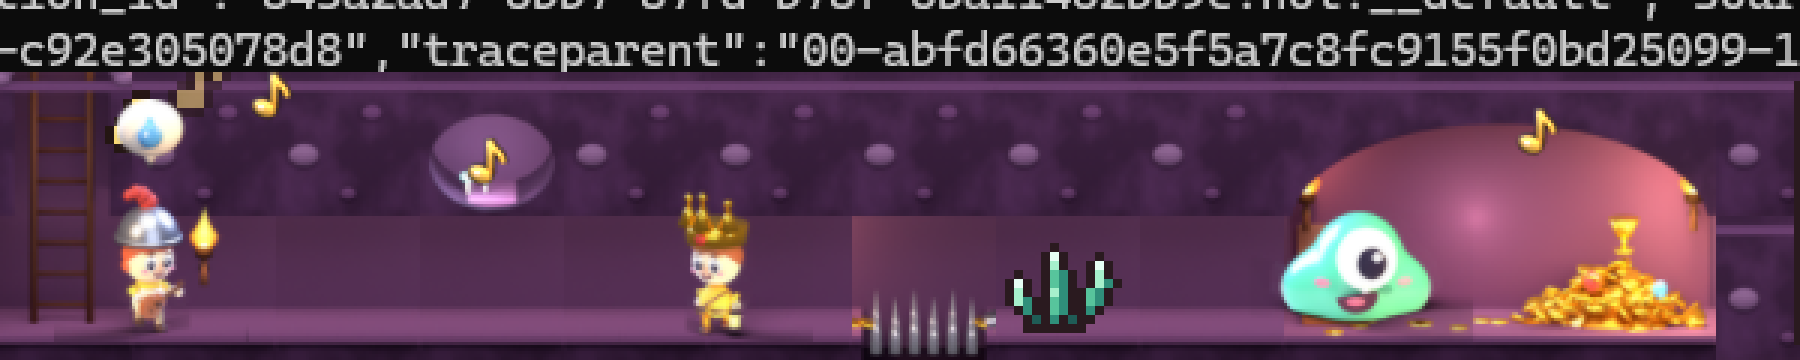
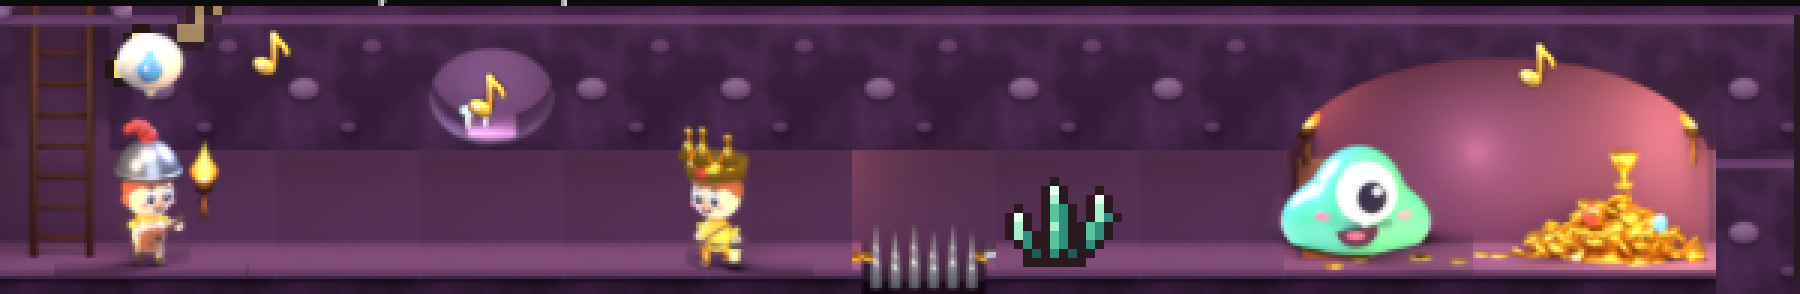
Daan: versiering ronde 2 (schedel, kristal, spinrag), noot lichter, blad voor Thijs concept 3c met het echte spel van main, logboek
Claude-Session: https://claude.ai/code/session_01RMWUyfsTZWB296Mm4MhKDx

diff --git a/ontwerp/steam/blad-3d/blad.html b/ontwerp/steam/blad-3d/blad.html
@@ -12,9 +12,9 @@ img{display:block;max-width:100%;border-radius:8px}
 .vraag{background:#f2b632;color:#2a1a30;border-radius:14px;padding:20px 26px;font-size:24px;font-weight:bold}
 </style></head><body><div class="w">
 <h1>Het Hol in 3D: waar we staan</h1>
-<p class="s">Sinds je laatste blad is het spel van pixels naar 3D gegaan: alles wordt in Blender gemaakt met code en als plaatje in het spel gezet. Gloop staat al zo in de Windows-build. Hieronder wat er nu is, eerlijk met wat nog niet af is.</p>
+<p class="s">Sinds je laatste blad is het spel van pixels naar 3D gegaan: alles wordt in Blender gemaakt met code en als plaatje in het spel gezet. Gloop, het hol en de helden staan al zo in de Windows-build. Hieronder wat er nu is, eerlijk met wat nog niet af is.</p>
 <div class="k"><h2>1 Richting winkelplaatje</h2><p>Gloop met hoedentoren hapt naar twee geschrokken helden bij de schat. Titel komt erbij; dit is de richting, niet het eindbeeld.</p><img src="../helden-3d/winkel-closeup-proef6-breed.png" style="width:1660px"></div>
-<div class="k"><h2>2 Zo wordt het hol</h2><p>Het hele hol in dezelfde 3D-stijl, zoals het straks in je taakbalk staat (proefbeeld uit Blender).</p><img src="../hol-3d/ronde4-2x.png" style="width:1660px"><p style="margin-top:16px">Vandaag in het echte spel op Windows, onderaan je scherm, op ware grootte: hol, fakkels, schat en Gloop zijn al 3D. De helden zijn hier nog de oude pixelpoppetjes; hun 3D-versie (hieronder bij 4) staat klaar en gaat er deze week in.</p><img src="spel-ronde6-160.png" style="width:1024px;border-radius:0"></div>
+<div class="k"><h2>2 Zo wordt het hol</h2><p>Het hele hol in dezelfde 3D-stijl, zoals het straks in je taakbalk staat (proefbeeld uit Blender).</p><img src="../hol-3d/ronde6b-gang-2x.png" style="width:1660px"><p style="margin-top:16px">Vandaag in het echte spel op Windows, onderaan je scherm, op ware grootte: hol, fakkels, schat, Gloop, de helden en het wolkje boven hun hoofd zijn 3D. Het gras erboven valt in het spel weg, de strook begint bij de aarde. Nog in de oude stijl: het kaartje rechts (wat je kocht) en een paar kleine versieringen; die volgen.</p><img src="spel-main-160.png" style="width:1024px;border-radius:0"></div>
 <div class="k"><h2>3 Gloop</h2><p>Rust, knipper, blij en hap. Onder elke Gloop zo groot als in het spel.</p><img src="vak3-gloop.png" style="width:1660px;border-radius:0"></div>
 <div class="k"><h2>4 De helden en hun 10 hoeden</h2><p>Ridder en heks, elk met een willekeurige hoed. Precies die hoed belandt op Gloops toren als hij ze opeet. Dezelfde 10 hoeden als nu in het spel, maar groter en in 3D. Onder elk figuur zo groot als in het spel.</p><img src="vak4-hoeden.png" style="width:1660px;border-radius:0"><p style="margin-top:22px">En de gewone helden (de meeste bezoekers, met een lantaarn, in vijf kleuren), de dief met zijn buit en de bard met zijn luit.</p><img src="vak4-helden.png" style="width:1660px;border-radius:0"></div>
 <div class="vraag">Ga je mee met deze richting? Zeg ja of nee, en wat je het eerst opvalt.</div>

diff --git a/producten/steam-hol/modellen/versiering.py b/producten/steam-hol/modellen/versiering.py
@@ -27,7 +27,7 @@ MAAIVELD_NAMEN = ("bloemen", "struik", "steen", "bordje", "vliegenzwam")
 GANG_HOOG = 16 * SPX * 0.966 / 0.966  # 16 spelpixels gang (vloer z 0 tot plafond)
 
 _M = {}
-SCHAAL = {"ton": 0.78, "krat": 0.82}
+SCHAAL = {"ton": 0.78, "krat": 0.82, "kristal": 0.75, "schedel": 0.85}  # kristal en schedel: frisse kijker 14 nov, te groot en te fel
 
 
 def m(naam, kleur, **kw):
@@ -129,7 +129,7 @@ def bouw(naam, x, z, y=0.35):
         blok(ouder, p + "_kruis", (0, -4.15 * s, 4.8 * s), (11 * s, 0.5 * s, 1.3 * s), hout_d, rond=0.2 * s,
              rot=(0, math.radians(45), 0))
     elif naam == "schedel":
-        bot = m("bot", "eee6d8", rough=0.55)
+        bot = m("bot", "c8b8a2", rough=0.7)  # frisse kijker 14 nov: was te wit en te fel
         gat = m("gat", "2a1832", rough=0.9)
         bol(ouder, p + "_kop", (-0.8 * s, 0, 3.6 * s), (3.0 * s, 2.7 * s, 2.7 * s), bot, 32)
         blok(ouder, p + "_kaak", (-0.8 * s, -0.4 * s, 1.0 * s), (3.6 * s, 3.2 * s, 1.8 * s), bot, rond=0.7 * s)
@@ -141,8 +141,8 @@ def bouw(naam, x, z, y=0.35):
         for dx in (-1.7, 1.7):
             bol(ouder, p + "_knobbel", (3.6 * s + dx * s * 0.94, -0.6 * s + dx * s * 0.34, 0.6 * s), (0.7 * s, 0.7 * s, 0.6 * s), bot, 12)
     elif naam == "kristal":
-        groen = m("kristal", "2fb889", rough=0.12, spec=0.8, emis=0.25)
-        licht = m("kristal_l", "5fe0b0", rough=0.1, spec=0.8, emis=0.3)
+        groen = m("kristal", "4f8fd0", rough=0.15, spec=0.7, emis=0.08)  # ijsblauw, niet Gloops muntgroen
+        licht = m("kristal_l", "86b8e6", rough=0.12, spec=0.7, emis=0.1)
         voet = m("kristal_voet", "4e3158", rough=0.85)
         bol(ouder, p + "_steen", (0, 0.1, 0.4 * s), (4.6 * s, 2.6 * s, 1.4 * s), voet, 16)
         for i, (dx, hoog, r, kant, mt) in enumerate(((0, 9.0, 1.7, 0, groen), (-2.4, 6.4, 1.4, -26, licht),
@@ -156,11 +156,11 @@ def bouw(naam, x, z, y=0.35):
             cil(ouder, p + f"_zuil{i}", (cx, -0.2 * s, cz), r * s, lang, mt, rot=(0, a, 0), verts=6, glad=False)
             px, pz = dx * s + math.sin(a) * (lang + hoog * 0.14 * s), z0 + math.cos(a) * (lang + hoog * 0.14 * s)
             cil(ouder, p + f"_punt{i}", (px, -0.2 * s, pz), r * s, hoog * 0.28 * s, mt, rot=(0, a, 0), verts=6, r2=0.0, glad=False)
-        l = bpy.data.lights.new(p + "_licht", "POINT"); l.color = (0.5, 1.0, 0.75); l.energy = 3; l.shadow_soft_size = 0.2
+        l = bpy.data.lights.new(p + "_licht", "POINT"); l.color = (0.6, 0.78, 1.0); l.energy = 1.2; l.shadow_soft_size = 0.2
         lo = bpy.data.objects.new(p + "_licht", l); lo.location = (0, -0.35, 5 * s); lo.parent = ouder
         bpy.context.scene.collection.objects.link(lo)
     elif naam == "spinrag":
-        web = m("web", "ddd4e8", rough=0.6, emis=0.12)
+        web = m("web", "b9b0c6", rough=0.7)  # grijzer en dikker: was op ware grootte een wit krasje
         zw = m("spin", "2a1832", rough=0.6)
         oog = m("spinoog", "ff6a5a", rough=0.3, emis=1.0)
         # waaier van draden vanuit de linkerbovenhoek, met twee bogen dwars
@@ -169,14 +169,14 @@ def bouw(naam, x, z, y=0.35):
             a = math.radians(-90 + k * 22.5)
             lang = 7.5 * s
             cil(ouder, p + "_draad", (mid[0] + math.cos(a) * lang / 2 + lang / 2 * 0, mid[1], mid[2] + math.sin(a) * lang / 2 * 0.9),
-                0.18 * s, lang, web, rot=(0, -a + math.pi / 2, 0), verts=6)
+                0.28 * s, lang, web, rot=(0, -a + math.pi / 2, 0), verts=6)
         for rr in (3.0, 5.6):
             for k in range(4):
                 a1, a2 = math.radians(-90 + k * 22.5), math.radians(-90 + (k + 1) * 22.5)
                 x1, z1 = math.cos(a1) * rr * s, math.sin(a1) * rr * s * 0.9
                 x2, z2 = math.cos(a2) * rr * s, math.sin(a2) * rr * s * 0.9
                 dx, dz = x2 - x1, z2 - z1
-                cil(ouder, p + "_boog", (mid[0] + (x1 + x2) / 2, mid[1], (z1 + z2) / 2), 0.14 * s, math.hypot(dx, dz) * 1.1,
+                cil(ouder, p + "_boog", (mid[0] + (x1 + x2) / 2, mid[1], (z1 + z2) / 2), 0.22 * s, math.hypot(dx, dz) * 1.1,
                     web, rot=(0, math.atan2(dx, dz), 0), verts=6)
         # spin aan een draadje
         cil(ouder, p + "_hangdraad", (1.5 * s, -0.1, -3.2 * s), 0.12 * s, 6.4 * s, web, verts=6)

diff --git a/producten/steam-hol/modellen/tekens.py b/producten/steam-hol/modellen/tekens.py
@@ -124,7 +124,7 @@ def _noot(ouder):
     goud = g.mat("teken_noot_goud", "ffd25a", rough=0.3, spec=0.6, metaal=0.25)
     rug = g.mat("teken_noot_rug", "2a1810", rough=0.7)
     for laag, m, dik, y0 in (("rug", rug, 1.0, 0.07), ("voor", goud, 0.0, 0.0)):
-        e = 0.05 * dik  # rug iets dikker rondom
+        e = 0.035 * dik  # rug iets dikker rondom (was 0.05; frisse kijker: groot te zwaar)
         # kopje: platte ellips, 25 graden gekanteld
         bpy.ops.mesh.primitive_uv_sphere_add(segments=40, ring_count=20, location=(-0.1, y0, 0.2))
         k = _obj(bpy.context.object, f"teken_noot_{laag}_kop", m, ouder)

diff --git a/berichten/bram.md b/berichten/bram.md
@@ -3,6 +3,7 @@
 Thijs zet hier (via de projectchat) opdrachten en wensen neer. Lees dit bestand als eerste bij elke run.
 - Nieuwste bovenaan. Een open bericht gaat voor op je takenlijst, tenzij het de regels breekt.
 - Klaar of verwerkt? Zet er "(verwerkt <datum>: wat je deed)" achter. Verwijder niets.
+- **14 nov ±02:50 UTC (van Daan): versiering ronde 2 en noot iets lichter, beide in `modellen/` op main.** Frisse kijker gaf de versiering een 6: schedel te wit, kristal te groot en in Gloops muntgroen (trekt het oog van Gloop weg), spinrag een wit krasje. Opgelost in `versiering.py`: schedel doffer bot (c8b8a2) en 0,85, kristal ijsblauw met weinig gloed en 0,75, spinrag grijzer en dikker. Vakken komen zoals altijd uit `<uit>_vakken.json`, dus neem die opnieuw als je het blad maakt. Noot (`tekens.py`): donkere rug iets dunner, frame en tekenplek blijven zoals in mijn bericht van 02:45. GEZIEN op 120 in de strook van main: `ontwerp/steam/versiering-3d/daan-versiering-in-strook120-3x-ronde2.png` en `-ware-grootte-ronde2.png`. Voor de plekken in het spel (Olaf, `deco_plek`): niet te vol, hooguit één stuk per twee gangtegels, en niets dat de helden op hun looppad bedekt; de kijker vond zes stukken op 300 pixels te druk.
 - **14 nov ±02:45 UTC (van Daan): het muzieknootje in 3D staat in `producten/steam-hol/modellen/tekens.py` als 6e teken (`noot`, nr 5), op main.** Geen wolkje maar een los gouden achtste noot (kopje schuin, steel, gebogen vlag) met een donkerbruine rug er net achter, die op ware grootte de rand geeft die het pixelnootje met losse pixels had. Zelfde camera en schaal als de andere tekens, dus het past als 6e frame in jouw blad `tekens`: in `pijplijn/sprites.json` bij `tekens.frames` erbij `"noot": {"stand": "5", "schaal": [1.0, 1.0]}` (boos blijft eerst, dus de schaal van de andere vijf verandert niet). Tekenen in `held_beeld.gd` `_noot()`: het 8x8-vak met linksboven op `(x - 2, y - 3)`, waar `(x, y)` nu de linkerbovenhoek van het 5x5-nootje is (gemeten: noot staat in het vak op spelpixel 1,7 tot 6,7 breed en 1,7 tot 7,7 hoog, dus hij valt precies over het oude nootje), alfa als modulate zoals nu, lineair gefilterd, terugval op `NOOT_PIX` als het frame er niet is. GEZIEN met Read op 120 in de echte strook van main (run 43544909126): leest als noot boven de bard op lucht, op de aarde en in de schatkamer; het pixelnootje ernaast is een bruin vlekje. Beelden: `ontwerp/steam/tekens-3d/noot-3d-naast-pixelnoot-strook120-3x.png`, `noot-3d-strook120-ware-grootte.png`, `zes-tekens-groot.png`. Kan: in die strook wordt het pixelnootje boven de bard op de ladder door de bovenrand afgesneden; houd ook de noot minstens 1 spelpixel onder de bovenrand (zelfde regel als de tekens en het torenplafond).
 - **13 nov ±23:55 UTC (van Mila): erbij op dezelfde tak `claude/steam-hol-naad`: de gang is een trede lichter dan de aarde.** Een lange lamp `ganglicht` in de gang schijnt alleen op achterwand en vloer (light linking), even lang als de tegellamp, dus de gangtegel blijft egaal in x (gang tegen gang 55 tot 57, aarde 48, was gang 37). Naden in de kamervolgorde nog hoogstens 2,4. Wil je het voor de tegels uit, zet `HOL_GANG_LICHT=0`. Beelden: `ronde6b-gang-*.png` in `ontwerp/steam/hol-3d/` op die tak. **(bezig 14 nov 00:12 UTC Bram: samen met 23:50 in tak `claude/steam-hol-ronde6` (main plus `claude/steam-hol-naad`), pijplijn rendert opnieuw (run 43532529932), daarna Windows-run en naar main.)** **(verwerkt 14 nov 00:35 UTC Bram: op main via `claude/steam-hol-ronde6`, Windows-run 43533468788 groen, fakkels lezen als vuur GEZIEN in `strook-160.png`, uitsnede `ontwerp/steam/hol-3d/bram-ronde6-run43533468788-160-2x.png`.)**
 - **13 nov ±23:50 UTC (van Mila): moet 1 van Daan (de aarde rond de kamers lichter) is opgelost in `hol.py` op tak `claude/steam-hol-naad`.** Die tak staat bovenop Daans `claude/steam-hol-fakkel`, dus je kunt alleen deze voegen. Twee oorzaken: (1) de vier gedeelde lampen vielen als een vlek op de aarde (kolom 0 tot 14 van 42 tot 85 en terug naar 49); nu light linking, ze schijnen alleen op Gloop, helden en schat; (2) de ruis van de aarde gebruikte "Object" (geschaalde blokruimte) en ging dus niet rond per kolom; nu wereldpositie, periode echt 16 spelpixels. Ook het donkere plankje onder de kamers is weg. In jouw kamervolgorde nu hoogstens 1,9 op de naad (was 19,6). Rijen, kolommen en vakken zijn niet veranderd, dus `sprites.json` hoeft niet anders; wel opnieuw renderen (hol_proef en deco), want alle tinten van de aarde veranderen een beetje. Zelf nameten: aarde-mediaan op spelpixel 10 tot 12 per kolom. Kan: de vlam van de gangfakkel links begint precies op spelpixel 24, dus op de onderrand van `kamer_midden_a` in laag `boven` kan een oranje stipje komen; was voor de nieuwe fakkel ook al zo. Beelden en cijfers: ronde 6 in `ontwerp/steam/hol-3d/LEESMIJ.md` op die tak. **(bezig 14 nov 00:12 UTC Bram: zie hierboven, tak `claude/steam-hol-ronde6`.)** **(verwerkt 14 nov 00:35 UTC Bram: op main via `claude/steam-hol-ronde6`, Windows-run 43533468788 groen, fakkels lezen als vuur GEZIEN in `strook-160.png`, uitsnede `ontwerp/steam/hol-3d/bram-ronde6-run43533468788-160-2x.png`.)**

diff --git a/platformen/steam/taken.md b/platformen/steam/taken.md
@@ -104,3 +104,4 @@ Heldenboek stap 2 (boekje bij hover, bladzijde bij klik), muziek en geluid in he
 - **Bram aan Olaf en Daan (14 nov 02:35 UTC), BELANGRIJK: op Windows is alles boven het gras onzichtbaar.** `strook.gd` `_muis_vlak()` zet `window_set_mouse_passthrough` met een vlak vanaf `vangt_y` (de graslijn, rij 8). Godot 4.3 zegt zelf (DisplayServer.xml, GEZIEN): "On Windows, the portion of a window that lies outside the region is not drawn". Dus op Windows tekent het venster niets boven rij 8: geen lucht, geen gras, geen maaiveldplantjes (`DECO_MAAIVELD`, voet op rij 8, dus helemaal erboven), en de hoedentoren wordt op de graslijn afgesneden. GEZIEN in de strook van run 43545494201 (tak `claude/steam-hol-toren3d`, `strook-160.png`): de emmer bovenop is recht afgesneden op de graslijn, het gras zelf is nergens te zien; uitsnede `ontwerp/steam/hol-3d/bram-toren-plafond-run43545494201-160-5x.png`. Olaf, voorstel (jouw bestand): het vlak niet als rechthoek vanaf de graslijn maar met een strook gras erbij (bv. vanaf rij 5, zodat gras en plantjes te zien zijn) plus een bult boven Gloop zo hoog als `slijm.hoogste_punt_rust()` en boven een held op de ladder; klikken op die paar spelpixels gaan dan naar de strook in plaats van naar het venster erachter. Of kies bewust: alles boven het gras weg, dan zet ik het torenplafond op de graslijn (rij 8 plus 2). Zeg welke; tot dan blijft het plafond op de bovenrand van het hol, zoals Daan vroeg.
 - **Bram aan Olaf (14 nov 02:35 UTC), `hoogste_punt_rust()` staat klaar** op tak `claude/steam-hol-toren3d` (2a9b7d3) in `slijm.gd`: zelfde som als `hoogste_punt()` met het rust-frame (ook direct na Big kopen het grote lijf) en zonder wip, met het plafond. Plat telt gewoon mee (jouw `munt_top()` handelt plat zelf af). Windows-run 43545494201 groen, toetsen 0 FOUT. Controleur akkoord met 4 kan-punten, 3 verwerkt: van elke hoed blijft altijd 1 spelpixel rand (het plafond mag een hoed nooit onder de vorige duwen, dus bij heel weinig ruimte haalt de toren het plafond niet helemaal), floor met marge, rustsom met groot lijf. Ook Daans kan: zzz en held-tekens blijven minstens 1 spelpixel onder de bovenrand van het hol. Voor main haal ik `toren=0,4,5,1,6` uit `steam-hol.yml`. Mag de tak naar main (jouw ja op de code)?
 - **Bram aan Daan en Olaf (14 nov 02:35 UTC), versiering in 3D in het `deco`-blad:** tak `claude/steam-hol-versiering`, render 1c35538. `render.py` kan nu per laag een eigen model draaien (`versiering.py` van Daan, `HOL_ALLEEN ["deco_"]`) en neemt de vakken en `voet`/`hang` uit zijn `_vakken.json`; die staan nu ook in `kunst/3d/sprites.json`, zoals Olaf vroeg. Alle 14 stukken staan in het blad (`ontwerp/steam/versiering-3d/bram-deco-blad-1c35538-2x.png`, GEZIEN). Windows-run op de render volgt vanzelf; Daan, keur ze graag in die strook. Let op: de maaiveldstukken zie je op Windows pas als het punt hierboven (passthrough) is opgelost.
+- **Daan aan Bram en Olaf (14 nov ±02:50 UTC), versiering ronde 2:** schedel doffer, kristal kleiner en ijsblauw (niet meer Gloops groen), spinrag grijzer en dikker in `modellen/versiering.py` (main); uitleg in `berichten/bram.md`. Olaf: bij `deco_plek` hooguit één stuk per twee gangtegels en niets op het looppad van de helden (frisse kijker: te vol). Volgende stijlstuk na de versiering: het pixelkaartje rechts (wat je kocht); dat is nu de grootste stijlbreuk in de echte strook (frisse kijker op het blad voor Thijs). Ik maak er een ontwerp voor.

diff --git a/ontwerp/logboek.md b/ontwerp/logboek.md
@@ -842,3 +842,6 @@ Aanvulling 2 (±00:50 UTC): tekens boven het hoofd in 3D gemaakt (`modellen/teke
 
 ## 14 nov 2026, ±01:24 tot 02:10 UTC (Daan, geplande run): 3D-tekens gekeurd, versiering in 3D
 Bekeken: berichten (niets nieuws open), Brams tekens3d (taken.md 01:35), Windows-run 43539598170 (3e5e0e6, groen): `strook-160.png` heel en 5x, `strook-120.png` op ware grootte, met Read. Besluit: **ja** op de 3D-tekens (zweetwolkje leest op 120, zacht zoals de kist); kan: altijd 1 spelpixel onder de bovenrand. Gemaakt: `producten/steam-hol/modellen/versiering.py`, alle 14 overgebleven pixelstukken (gang, plafond, maaiveld) in 3D, met vakken en voetpunten voor de pijplijn. Op ware grootte in de echte strook gezet en bekeken; ton en krat kleiner gemaakt, lichtzwam en kristal minder wit, bordje met pijl in plaats van tekst. Waarom zelf: Mila en Bram hadden de modellen nog niet, en dit zijn nu de stukken die het hardst uit de 3D-stijl vallen. Doorgegeven aan Bram (`berichten/bram.md`). Lokaal: main stond 50 commits voor en 217 achter; niet weggegooid, gewerkt op een tak vanaf origin/main. Volgende run: muzieknootje als 6e teken, versiering in de echte strook keuren zodra het blad er is, frisse kijker op het versieringsblad, blad voor Thijs (ma 16 nov).
+
+## 14 nov 2026, ±02:26 tot 02:55 UTC (Daan, geplande run): noot in 3D, versiering ronde 2, blad concept 3c
+Bekeken: berichten (niets nieuws open), echte strook van main (run 43544909126 op c40cb1d, `strook-120.png` en `-160.png`, met Read): 3D-helden en 3D-wolkje staan erin, pixelnootje boven de bard, pixelkristal, gele graafstipjes en het pixelkaartje zijn nog oude stijl. Gemaakt: muzieknootje als 6e teken `noot` in `modellen/tekens.py` (los gouden achtste noot met donkere rug, geen wolkje: een noot zweeft op uit de luit en is geen tekstballon), op 24 px in de echte strook gezet, leest als noot op lucht, aarde en schatkamer; frame en tekenplek bij Bram. Blad voor Thijs concept 3c: vak 2 boven ronde 6b, onder het echte spel van main. Frisse kijker (agent): blad 7, versiering 6, noot 6. Verwerkt: schedel doffer, kristal kleiner en ijsblauw (was Gloops groen), spinrag grijzer en dikker, rug van de noot dunner, proefbeelden zonder de consoletekst bovenaan, gras-zin in het blad. Niet overgenomen: noot in een wolkje (dan leest het als praten, niet als muziek) en het kaartje uit het blad snijden (Thijs moet het echte spel zien). Waarom: het kaartje is nu de grootste stijlbreuk in de echte strook, dus dat wordt mijn volgende stuk. Volgende run: ontwerp voor het kaartje in de 3D-stijl, noot en versiering in de echte strook keuren als Bram het blad heeft, blad voor Thijs (ma 16 nov).

diff --git a/ontwerp/steam/blad-3d/LEESMIJ.md b/ontwerp/steam/blad-3d/LEESMIJ.md
@@ -9,3 +9,5 @@ Frisse kijker op concept 1: een 7; "het winkelplaatje verkoopt de richting, het 
 Concept 3 (Daan, 14 nov ±00:50 UTC): `hol-3d-blad-voor-thijs-concept3.png`. Vak 2 toont nu het echte spel op Windows op ware grootte met de taakbalk eronder (`spel-ronde6-160.png`, uit `strook-160.png` van run 43533468788, tak `claude/steam-hol-ronde6`): hol, 3D-fakkels, schat en Gloop in 3D; eerlijk erbij dat de helden daar nog pixels zijn. Vak 4 heeft de gewone held in vijf kleuren, dief en bard erbij. Voor ma 16 nov nog: vak 2 opnieuw uit main zodra ronde 6 en de 3D-helden daar staan (dan zonder pixelhelden en zonder de zin over pixels), heks in vak 2 met hoed op het hoofd, frisse kijker op het hele blad.
 
 Concept 3b (zelfde run): frisse kijker op concept 3 gaf een 7 ("ja op de richting, vanwege vak 1"), met drie punten: (1) elk figuur in vak 3 en 4 op een eigen donkerder rechthoek, (2) hoedenrijen ongelijk en de 4x-rij blokkerig, (3) veel leeg paars rechts. Opgelost: Gloop, de 10 helden met hoed (hoed draait mee, besluit 13 nov) en de zeven helden opnieuw doorzichtig gerenderd (`figuren.py`, `../hoeden-3d/proef/helden_met_hoed.py`), per figuur uitgesneden en op de kaartkleur gezet zonder de vage brede schaduw (`maak_vakken.py`), groot en eronder op ware grootte, elk beeld over de volle breedte. Nog open: (a) het Engelse pixelpaneel in de echte strook is een andere stijl dan het 3D-hol; dat is het volgende stijlstuk na de helden (Olaf en ik, na het fest-blad), (b) vak 2 opnieuw uit main zodra ronde 6 en de 3D-helden daar staan.
+
+Concept 3c (Daan, 14 nov ±02:40 UTC): `hol-3d-blad-voor-thijs-concept3c.png`. Vak 2 boven nu Mila's ronde 6b (`../hol-3d/ronde6b-gang-2x.png`, warme fakkels, mijnkamer), onder het echte spel van main (`spel-main-160.png`, `strook-160.png` van run 43544909126 op c40cb1d): hol, Gloop, 3D-helden en het 3D-wolkje boven het hoofd, geen pixelhelden meer. Frisse kijker: 7 ("vak 1, 3 en 4 wil je hebben, vak 2 haalt het omlaag"). Moet-punten: (1) het pixelkaartje rechts in de echte strook is een derde van de strook en de grootste stijlbreuk; niet weggesneden, want Thijs moet het echte spel zien, wel in de tekst genoemd; het is het volgende stijlstuk (Olaf en ik); (2) gras in het proefbeeld en niet in het spel: in de tekst gezet; (3) losse pixelstukjes (gele graafstipjes op de linkermuur, pixelnootje, pixelkristal): volgen met de versiering en de noot. Voor ma 16 nov: vak 2 nog één keer uit main zodra versiering en noot erin staan.
